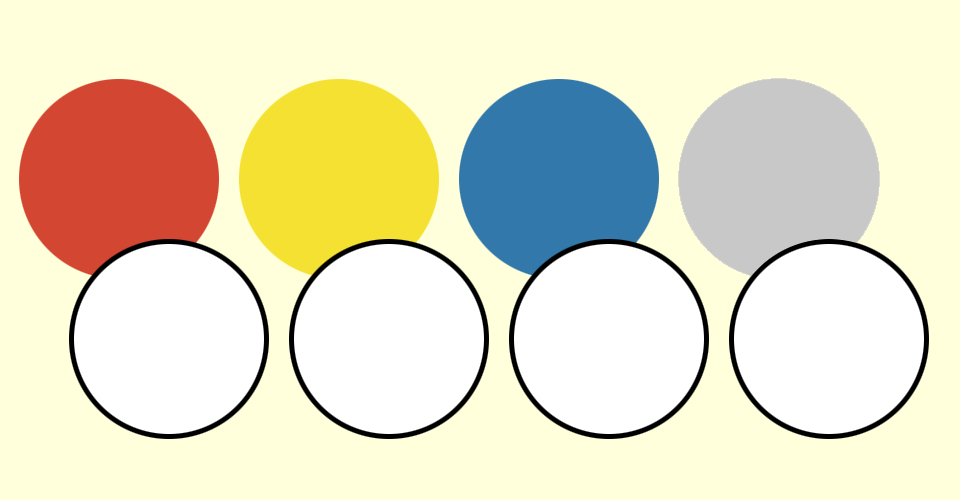
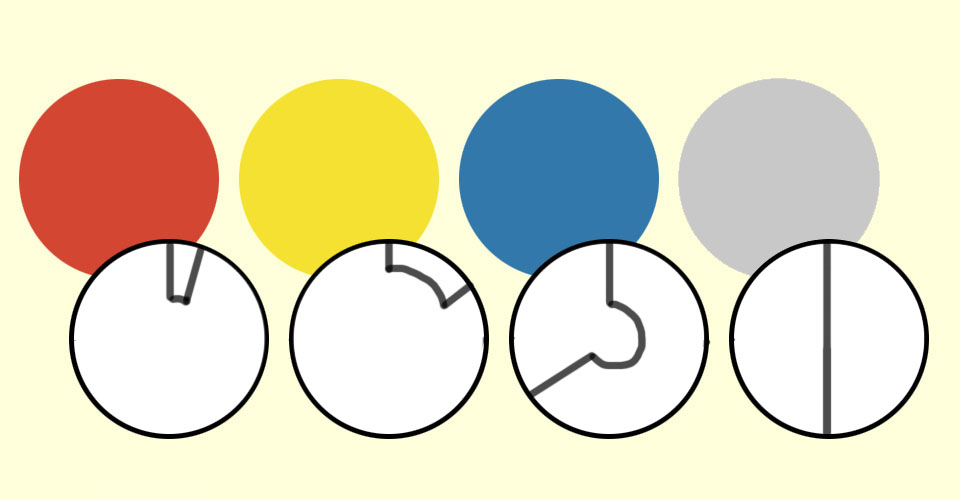
Concept One coded, changes needed

diff --git a/glyph.js b/glyph.js
@@ -1,5 +1,5 @@
 /* change default application behavior */
-var defaultMode = "sketch";
+var defaultMode = "edit";
 var defaultSize = 128;
 var defaultDisplay = "both"
 var defaultEmoji = 100;
@@ -26,28 +26,30 @@ function Glyph() {
    *       - strokeUniform(100); // white
    */ 
   this.draw = function(values, size) {
-    // replace this with your own version
 
-    // map lightness to large circle shade
-    let color1 = map(values[2], 0, 100, 10, 70)
-    strokeUniform(color1);
-    fillUniform(color1)
-    let s2 = size/2;
-    ellipse(s2, s2, size);
+    angleMode(DEGREES);
+    noFill();
 
-    // inner size is set to 30%
-    let inner_size = 0.2 + 0.4 * 0.3;
-    let s3 = size * inner_size;
+    let hueValue = values[0];
+    let satValue = values[1];
+    let ligValue = values[2];
 
-    // inner color based on saturation
-    let color2 = map(values[1], 0, 100, color1+20, 240)
-    fillUniform(color2);
-    strokeUniform(color2);
+    let strokeW = map(satValue,0,100,size/20,size/6);
+    let glyphRadius = map(ligValue,0,100,1, size-strokeW);
 
-    // hue controls left/right shift
-    let shift_frac = (values[0] - 180.0) / 180.0;
-    let max_shift = 0.5 * (size - s3);
-    let x_shift = shift_frac * max_shift;
-    ellipse(s2 + x_shift, s2, s3);  
-  }  
+    translate(size/3,size/3);
+    rotate(-90);
+
+    push();
+    //ellipse(0,0,size,size);
+
+    strokeWeight(strokeW);
+    //ellipse(0, 0, this.radius, this.radius);
+    arc(0,0,glyphRadius,glyphRadius,0,hueValue);
+    //console.log(this.hueValue);
+    strokeWeight(strokeW/4);
+    //arc(0,0,glyphRadius,glyphRadius,0,hueValue);
+    pop();
+
+  } 
 }

diff --git a/README.md b/README.md
@@ -2,12 +2,11 @@
 
 ### Color Glyphs
 
-I have 3 sketches to begin this project, with each one interpreting the colour in a different way, the third sketch is seen below. 
+Concept One - Code
 
-The third sketch takes the Hue value and uses it as an angle, similar to the first sketch, this angle determines the path of the line as shown in the sketch.
+I have coded the first of my concepts, that being the radial design. The glyph functions as expected, however upon the transition of going from a hue of 360 back to 0, the glyph jumps back to a dot, with no smooth transition between the two. This will hopefully be changed in further updates.
 
-The saturation value determines the radius in which the arc starts to turn around the sphere, with colours of no saturation being lines with no circle in them.
+The glyph functions very well in both the gradient and outlier modes, with the gradient showing a clear flow and the outlier being easily detectable.
 
-The lightness will look at changing the opacity of the line, or something along those lines to convey that change through the glyph.
 
 
